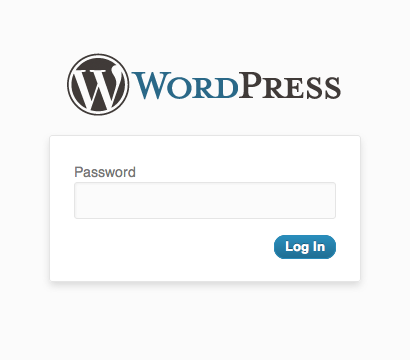
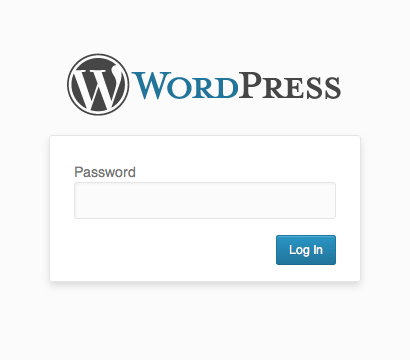
Update login screen styling for WordPress 3.5 compatibility.

Changed region(s): [[0.6439, 0.6417, 0.8195, 0.7333]]

diff --git a/theme/login.php b/theme/login.php
@@ -78,7 +78,7 @@ do_action( 'password_protected_login_head' );
 ?>
 
 </head>
-<body class="login login-password-protected">
+<body class="login login-password-protected login-action-password-protected-login wp-core-ui">
 
 <div id="login">
 	<h1><a href="<?php echo esc_url( apply_filters( 'password_proteced_login_headerurl', home_url( '/' ) ) ); ?>" title="<?php echo esc_attr( apply_filters( 'password_protected_login_headertitle', get_bloginfo( 'name' ) ) ); ?>"><?php bloginfo( 'name' ); ?></a></h1>
@@ -118,7 +118,7 @@ do_action( 'password_protected_login_head' );
 		<p class="forgetmenot"><label for="rememberme"><input name="rememberme" type="checkbox" id="rememberme" value="forever" tabindex="90"<?php checked( ! empty( $_POST['rememberme'] ) ); ?> /> <?php esc_attr_e( 'Remember Me', 'password-protected' ); ?></label></p>
 		-->
 		<p class="submit">
-			<input type="submit" name="wp-submit" id="wp-submit" class="button-primary" value="<?php esc_attr_e( 'Log In', 'password-protected' ); ?>" tabindex="100" />
+			<input type="submit" name="wp-submit" id="wp-submit" class="button button-primary button-large" value="<?php esc_attr_e( 'Log In', 'password-protected' ); ?>" tabindex="100" />
 			<input type="hidden" name="testcookie" value="1" />
 			<input type="hidden" name="password-protected" value="login" />
 			<input type="hidden" name="redirect_to" value="<?php echo esc_attr( $_REQUEST['redirect_to'] ); ?>" />
